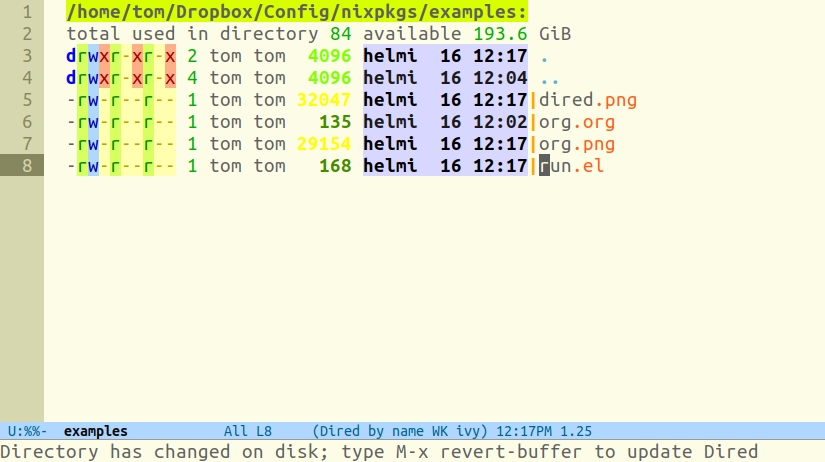
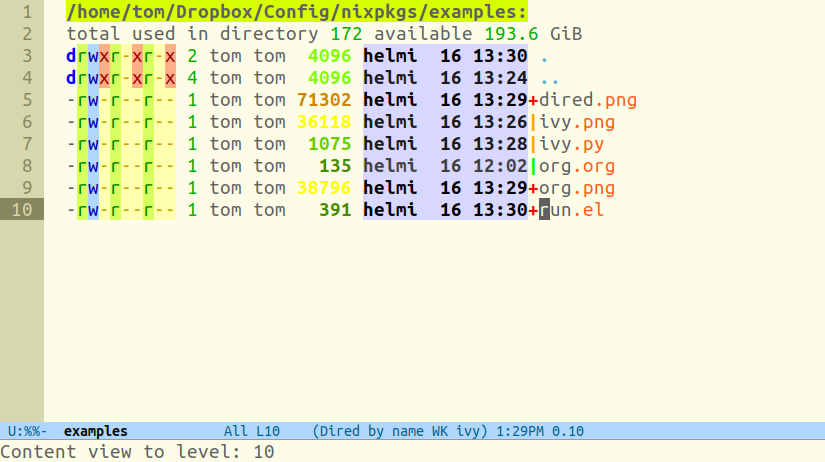
Add ivy screenshot

Changed region(s): [[0.0909, 0.0606, 0.7576, 0.4848], [0.0, 0.9091, 0.9394, 1.0], [0.0, 0.3333, 0.0606, 0.4848]]

diff --git a/examples/ivy.py b/examples/ivy.py
@@ -1,0 +1,30 @@
+from setuptools import setup, find_packages
+from codecs import open
+from os import path
+
+here = path.abspath(path.dirname(__file__))
+exec(open(path.join(here, 'skfem/version.py')).read())
+
+setup(
+    name='scikit-fem',
+    version=__version__,
+    description='Simple finite element assemblers',
+    long_description='Easy to use finite element assemblers and related tools. See Github page for more information and examples.',
+    url='https://github.com/kinnala/scikit-fem',
+    author='Tom Gustafsson',
+    # https://pypi.python.org/pypi?%3Aaction=list_classifiers
+    classifiers=[
+        'Development Status :: 3 - Alpha',
+        'License :: OSI Approved :: BSD License',
+        'Programming Language :: Python :: 3.6',
+        'Programming Language :: Python :: 3.7',
+        'Intended Audience :: Science/Research',
+        'Topic :: Scientific/Engineering :: Mathematics',
+    ],
+    packages=find_packages(exclude=['tests']),
+    install_requires=['numpy', 'scipy', 'meshio'],
+    extras_require={
+        'full': ['matplotlib'],
+    },
+    test_suite='tests',
+)
